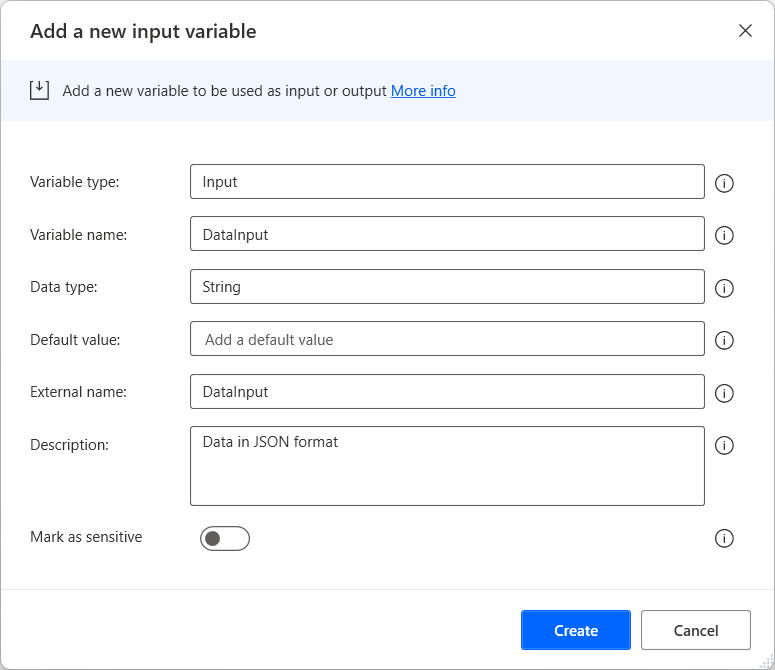
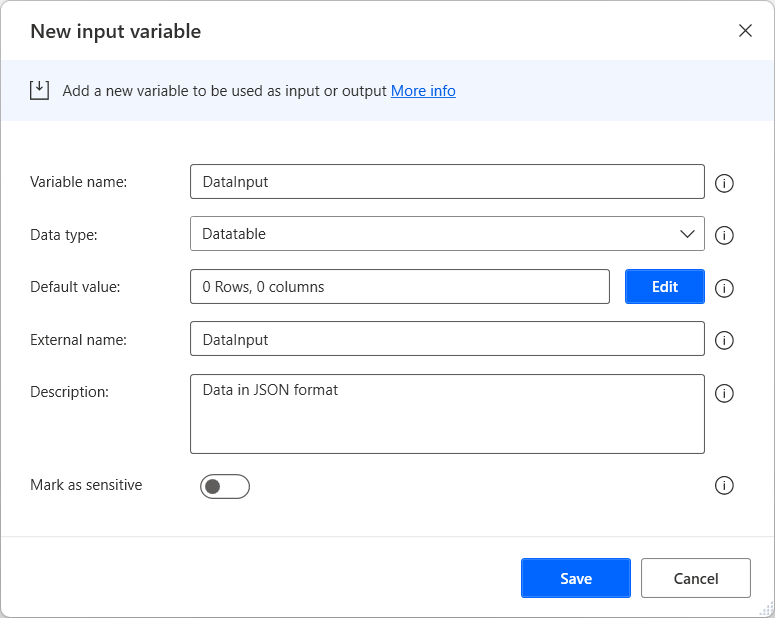
Updates in Pass a datatable from a cloud flow to a desktop flow

diff --git a/articles/desktop-flows/how-to/passing-datatable.md b/articles/desktop-flows/how-to/passing-datatable.md
@@ -19,65 +19,34 @@ search.audienceType:
 
 Some automation scenarios require users to pass data in tabular form from a cloud flow to a desktop flow. To implement this functionality, replicate the following flow:
 
-1. Before deploying any actions, [create a new input variable](../manage-variables.md#create-an-input-variable). In this example, the input variable is named **DataInput**.
+1. Create a new input variable](../manage-variables.md#create-an-input-variable) of a [datatable datatype](../variable-data-types.md#datatable). In this example, the input variable is named **DataInput**.
 
     ![Screenshot of the Add a new input variable dialog.](media/passing-datatable/creating-new-input-variable.png)
 
-    This variable will be used in your cloud flow to pass data to your desktop flow. The data must be in JSON format for this flow to run successfully. In the following example, you can see the structure of a JSON block.
+1. Inside your cloud flow, initialize a new string variable with the JSON text. Then, parse it and use the result as an input value in the **Run a flow built with Power Automate for desktop** action.
+
+    ![Screenshot of the created cloud flow that passes the datatable in a JSON format.](media/passing-datatable/cloud-flow-pass-datatable.png)
+
+
+      In the following example, you can see the structure of a JSON block.
 
     ``` JSON
     [
      {
      "Name": "Tania",
      "Last Name": "Agius",
-     "Email": "taniaagius@contoso.com",
+     "Email": "taniaagius@contoso.com"
      },
      {
      "Name": "Ditiro",
      "Last Name": "Kgosi",
-     "Email": "ditirokgosi@contoso.com",
+     "Email": "ditirokgosi@contoso.com"
      },
      {
      "Name": "Zoltan",
      "Last Name": "Gal",
-     "Email": "zoltangal@contoso.com",
+     "Email": "zoltangal@contoso.com"
      }
     ]
     ```
-    To find more information regarding passing data from cloud flows to desktop flows, refer to [Trigger a Power Automate desktop flow from another flow](../link-pad-flow-portal.md).
-
-1. Convert the imported JSON data to a custom object using the respective action. You can find more information regarding custom objects in [Advanced data types](../variable-data-types.md#advanced-data-types). 
-
-    ![Screenshot of the Convert JSON to custom object action.](media/passing-datatable/convert-json-custom-object-action.png)
-
-1. Deploy a **Set variable** action and create a new variable named **TableContent**. In this step, the variable must contain the headers of the table you want to pass separated by semicolons.
-
-    ![Screenshot of the Set variable action containing the headers of the table.](media/passing-datatable/set-variable-action-headers.png)
-
-1. Use a **For each** loop to iterate through each item of the previously created custom object.
-
-    ![Screenshot of a For each loop.](media/passing-datatable/for-each-loop.png)
-
-1. Use a **Set variable** action and append the appropriate values of the current item to the **TableContent** variable. The values must be separated by semicolons. 
-
-    ![Screenshot of the Set variable action containing the values of the current custom object item.](media/passing-datatable/set-variable-action-values.png)
-
-1. Outside the loop, deploy the **Get special folder** action to retrieve the path for your desktop folder. 
-
-    ![Screenshot of the Get special folder action.](media/passing-datatable/get-special-folder.png)
-
-1. Write the content of the **TableContent** variable to a file named **table.txt** located in your desktop folder. If the file doesn't exist, the action will create it automatically.
-
-    ![Screenshot of the Write text to file action.](media/passing-datatable/write-text-file-action.png)
-
-1. Use the **Rename file(s)** action to change the file extension of the previously mentioned file to **.csv**.
-
-    ![Screenshot of the Rename files action.](media/passing-datatable/rename-files-action.png)
-
-1. Lastly, read the content of the converted CSV file using the **Read from CSV file** action. The read data will have the form of a datatable.
-
-    ![Screenshot of the Read from CSV file action.](media/passing-datatable/read-from-csv-file-action.png)
-
-1. Optionally, use the **Delete file(s)** action to delete the **table.csv** file from your desktop. 
-
-    ![Screenshot of the Delete files action.](media/passing-datatable/delete-files-action.png)
+To find more information regarding passing data from cloud flows to desktop flows, refer to [Trigger a Power Automate desktop flow from another flow](../link-pad-flow-portal.md).
